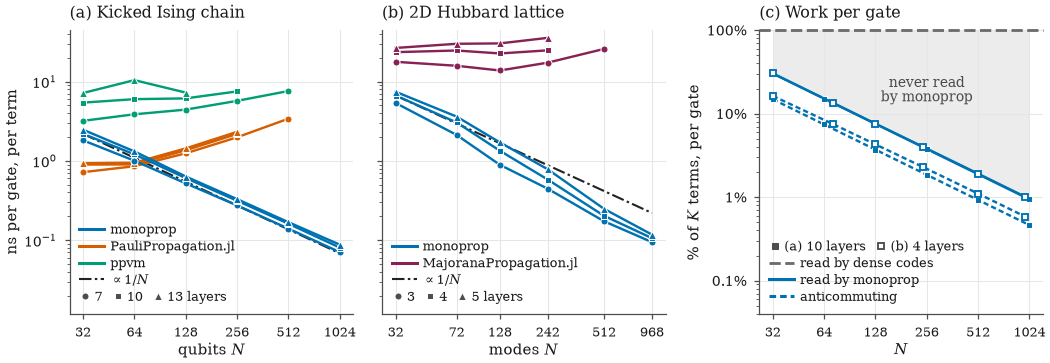
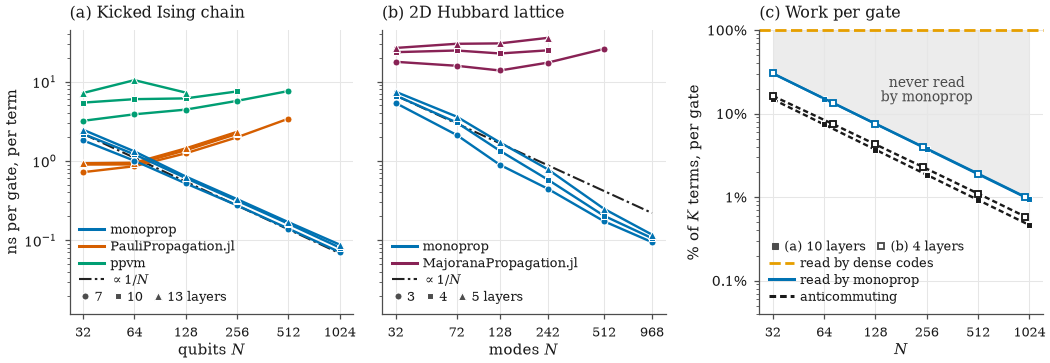
style(paper_plots): 🎨 Fig. 3(c) anticommuting set black dashed, dense codes' 100% orange
Assisted-by: claude-code:claude-opus-5-5

diff --git a/paper_plots/fig3_inverse_scaling/make_figure.py b/paper_plots/fig3_inverse_scaling/make_figure.py
@@ -27,9 +27,9 @@ One page-wide row of three panels:
 * (c) the work behind it, from counts rather than timings: the percentage of the operator's
   K terms a gate reads and rotates. A dense code reads all of them; monoprop reads the index
   lists of the gate's anticommutation support, and every engine rotates only the terms that
-  anticommute with the gate (``scripts/count_anticommuting.py``); both fall about as 1/N. Both monoprop
-  lines are its blue, the reads solid and the anticommuting set dashed; the dense codes' 100% is
-  grey.
+  anticommute with the gate (``scripts/count_anticommuting.py``); both fall about as 1/N.
+  monoprop's reads are its blue, the anticommuting set black and dashed; the dense codes' 100%
+  is orange and dashed.
 
 Every engine runs the identical circuit on the identical operator: ``check_same_workload``
 refuses to plot unless term counts, gate counts and expectation values agree at every point,
@@ -139,11 +139,11 @@ RING = 0.5
 GUIDE = "#222222"
 GUIDE_WIDTH = 1.0
 GUIDE_DASH = (0, (6, 1.6, 1.2, 1.6))
-# In (c) the dense codes' 100% is one grey dashed line: it holds for every dense engine, and
-# every hue is already an engine's.
-DENSE_COLOR = "#6b6b6b"
+# In (c) the dense codes' 100% is one orange dashed line (Okabe-Ito orange, apart from
+# PauliPropagation.jl's vermillion): it holds for every dense engine.
+DENSE_COLOR = "#E69F00"
 DENSE_DASH = (0, (4.0, 1.6))
-# monoprop's anticommuting set: its blue, dashed shorter than the dense codes' line.
+# The anticommuting set: black, dashed shorter than the dense codes' line.
 ANTI_DASH = (0, (2.2, 1.3))
 GRID = "#e6e6e6"
 PNG_DPI = 150  # preview only; the PDF keeps savefig.dpi
@@ -448,8 +448,8 @@ def _panel_legend(ax, handles, labels, *, ncol=1, rows_below=0, **kw):
     ax.add_artist(key)
 
 
-# Panel (c) keeps monoprop's blue for both of its lines, reads solid and the anticommuting set
-# dashed, and the dense codes' 100% in grey. The model is the marker's fill, keyed in grey like
+# Panel (c): monoprop's reads in its blue, the anticommuting set black and dashed, and the dense
+# codes' 100% orange and dashed. The model is the marker's fill, keyed in grey like
 # the depths and named by its panel.
 WORK_FILL = {"pauli": True, "majorana": False}
 WORK_FLOOR = (
@@ -527,11 +527,11 @@ def _work_counts(counts, kind):
 def work_panel(ax, counts, ns):
     """The percentage of the K terms a gate reads and rotates, against N, at the medium depth.
 
-    A dense code tests every term: the 100% line at the top of the axis, grey and dashed, as it
-    holds for every dense engine and every hue is already an engine's. monoprop reads the index
+    A dense code tests every term: the 100% line at the top of the axis, orange and dashed.
+    monoprop reads the index
     lists of the gate's anticommutation support (``index_reads_per_gate``: the entries of every
     list its scans fold), solid in its blue, and rotates only the terms in their symmetric
-    difference, the anticommuting set (``anticommuting_per_gate``), dashed in its blue. Both
+    difference, the anticommuting set (``anticommuting_per_gate``), black and dashed. Both
     come from ``scripts/count_anticommuting.py`` and both fall about as 1/N. The grey band,
     above the higher read line, is what the index never reads, named in its middle. The
     marker's fill is the model, keyed in grey above the lines as "(a) 10 layers" and "(b) 4
@@ -549,7 +549,7 @@ def work_panel(ax, counts, ns):
         reads[kind] = (n, np.array([100 * r / k for _, (k, _, r) in mid]))
         ax.plot(n, reads[kind][1], **_work_style(MONOPROP, kind), zorder=3)
         anti = np.array([100 * a / k for _, (k, a, _) in mid])
-        ax.plot(n, anti, **_work_style(MONOPROP, kind) | {"ls": ANTI_DASH}, zorder=3)
+        ax.plot(n, anti, **_work_style(INK, kind) | {"ls": ANTI_DASH}, zorder=3)
     # The 100% line is the top of the axis; unclipped, so it is drawn at full width.
     _dense_line(ax, zorder=2, clip_on=False)
     _never_read(ax, reads)
@@ -567,7 +567,7 @@ def work_panel(ax, counts, ns):
         [
             Line2D([], [], color=DENSE_COLOR, lw=LINE_WIDTH + 0.2, ls=DENSE_DASH),
             Line2D([], [], color=MONOPROP, lw=LINE_WIDTH + 0.3),
-            Line2D([], [], color=MONOPROP, lw=LINE_WIDTH + 0.3, ls=ANTI_DASH),
+            Line2D([], [], color=INK, lw=LINE_WIDTH + 0.3, ls=ANTI_DASH),
         ],
         ["read by dense codes", "read by monoprop", "anticommuting"],
     )

diff --git a/paper_plots/fig3_inverse_scaling/README.md b/paper_plots/fig3_inverse_scaling/README.md
@@ -22,10 +22,10 @@ One page-wide row of three panels (paper `fig:inverse-scaling`, a `figure*`):
 - **(c) work per gate:** from counts rather than timings, the percentage of the K terms one
   gate reads and rotates, at the medium depth of each model (squares, filled for kicked Ising
   and open for Hubbard, keyed "(a) 10 layers" and "(b) 4 layers" above the lines' key). A dense code reads all of
-  them (the grey dashed 100% line, the top of the axis). monoprop reads the index lists of the
+  them (the orange dashed 100% line, the top of the axis). monoprop reads the index lists of the
   gate's anticommutation support (solid blue: every entry of every list its scans fold, 30% of K at
   N = 32 for both models, 0.94% at N = 1024 and 1.0% at N = 968) and rotates only their
-  symmetric difference, the anticommuting set (dashed blue: 15% and 16% at N = 32, 0.46% at N = 1024
+  symmetric difference, the anticommuting set (black dashed: 15% and 16% at N = 32, 0.46% at N = 1024
   and 0.58% at N = 968). The grey band, from the higher read line up to 100%, is what the index
   never reads, named in its middle ("never read by monoprop"). Each panel's plotting box is
   square (7.0 × 2.42 in).
